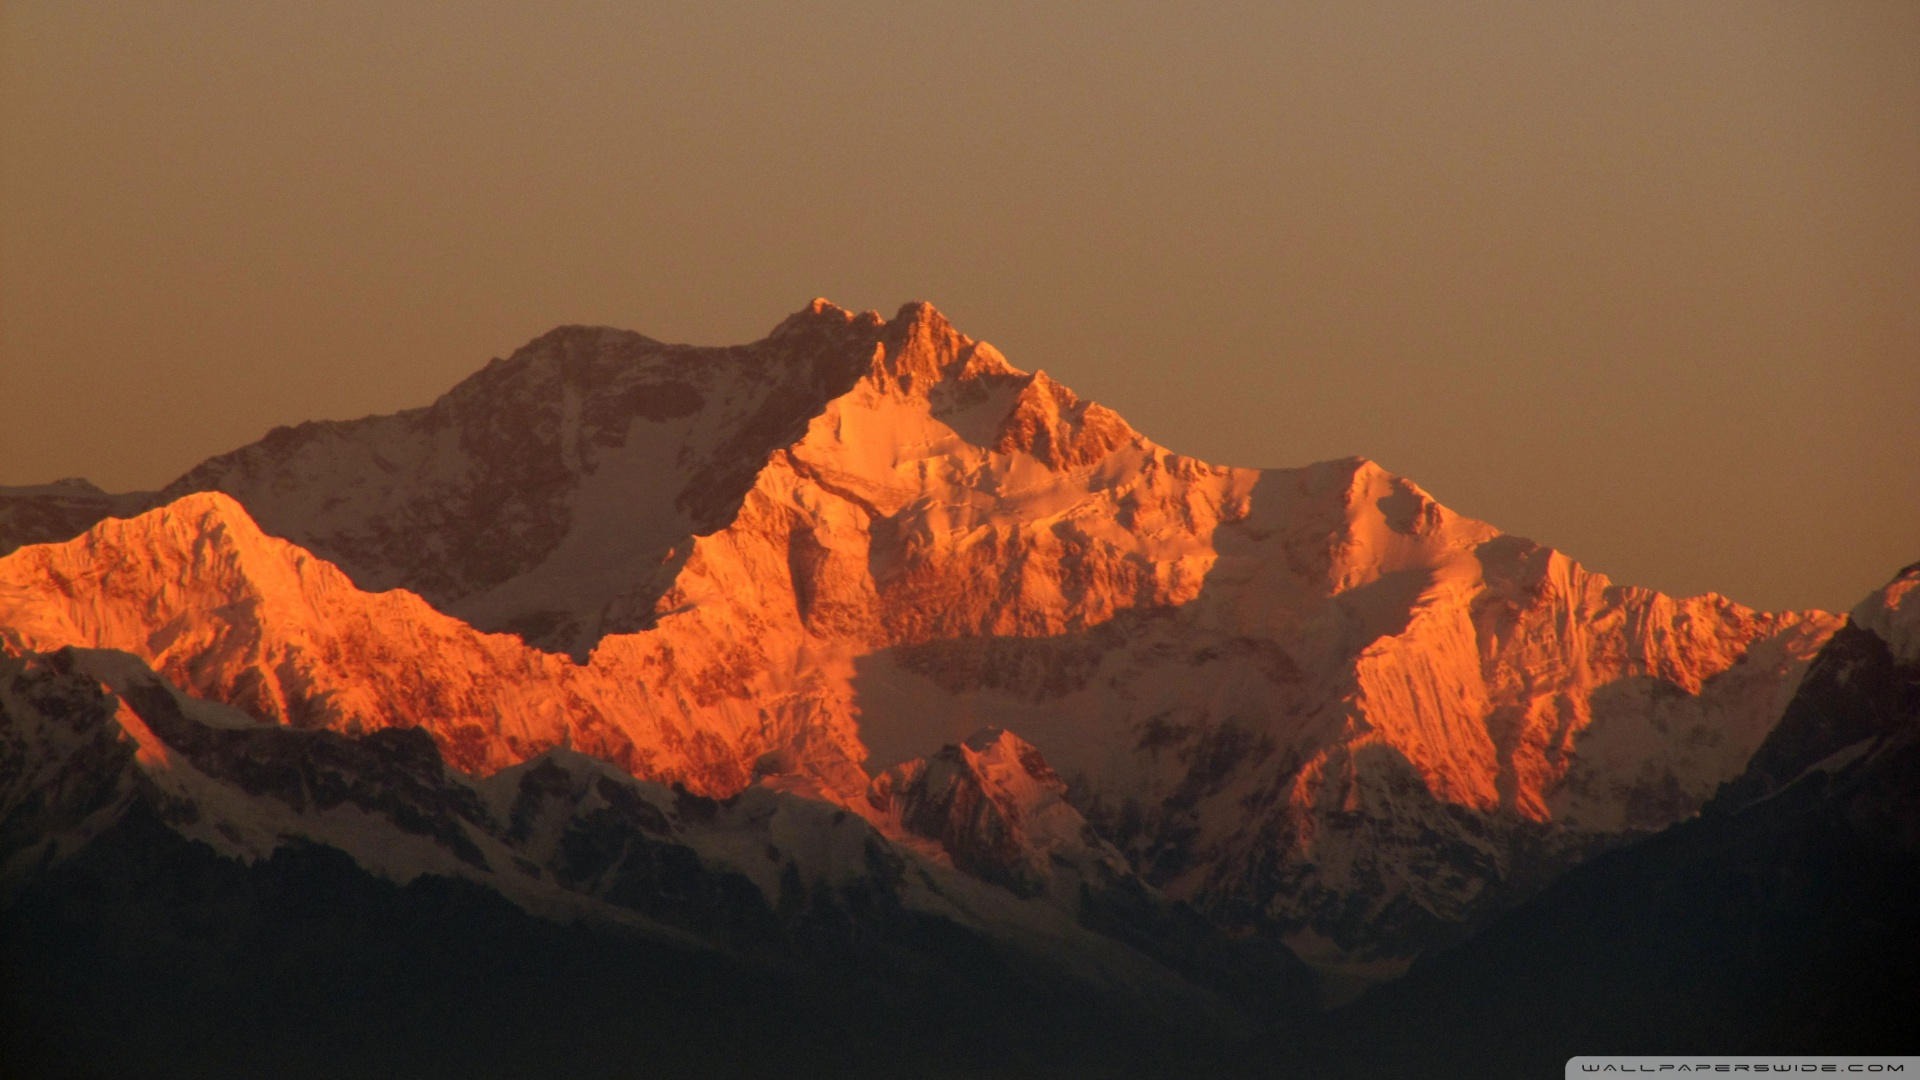
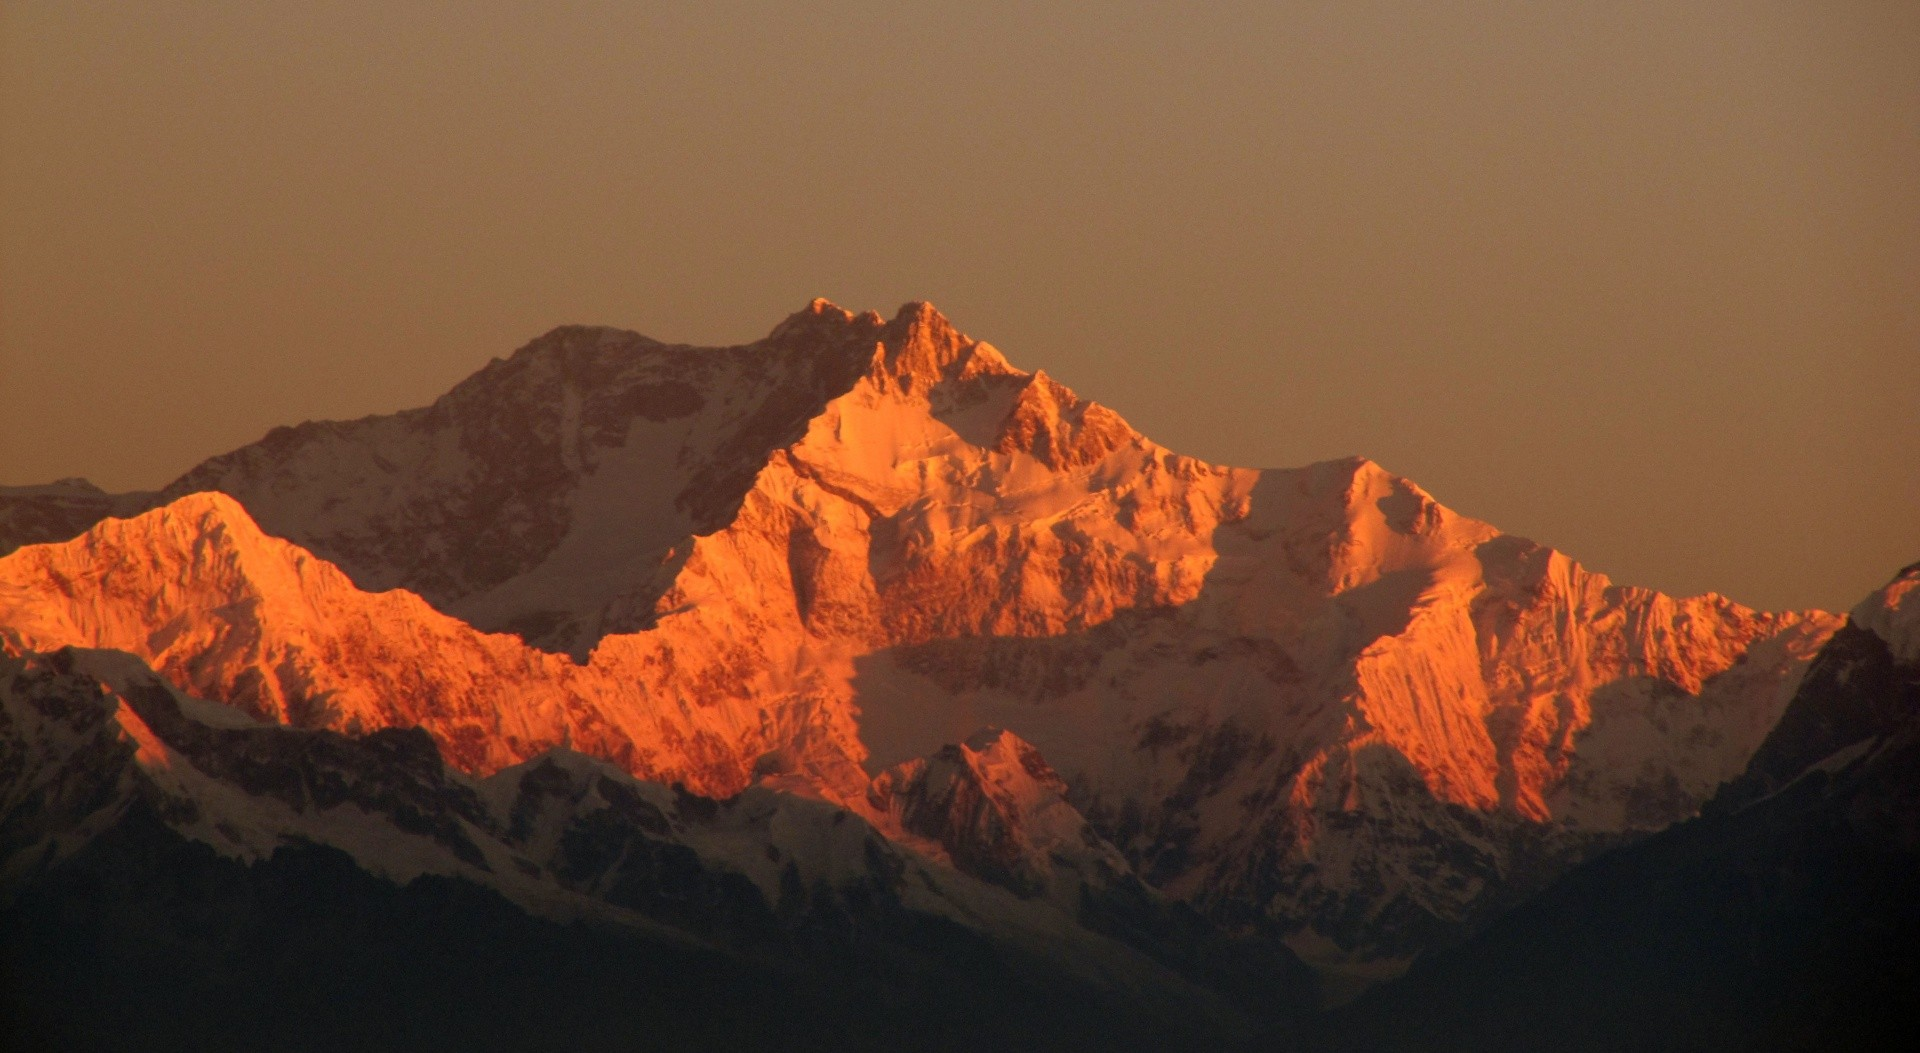
added 2 new wallpapers

diff --git a/README.md b/README.md
@@ -41,117 +41,123 @@ Wallpaper/
 
 <table>
 <tr>
+<td><img src="image/wallpaper/1.jpg" width="200"/></td>
+<td><img src="image/wallpaper/11.jpg" width="200"/></td>
 <td><img src="image/wallpaper/1762304706923393.jpg" width="200"/></td>
 <td><img src="image/wallpaper/1766587324200312.jpg" width="200"/></td>
+</tr>
+<tr>
 <td><img src="image/wallpaper/1770499604537675.jpg" width="200"/></td>
 <td><img src="image/wallpaper/17djs3lfndlnv.jpg" width="200"/></td>
-</tr>
-<tr>
 <td><img src="image/wallpaper/18_17-43-55.jpg" width="200"/></td>
 <td><img src="image/wallpaper/25_09-26-53.png" width="200"/></td>
+</tr>
+<tr>
 <td><img src="image/wallpaper/3257760.jpg" width="200"/></td>
 <td><img src="image/wallpaper/3257793.jpg" width="200"/></td>
-</tr>
-<tr>
 <td><img src="image/wallpaper/Taj.jpg" width="200"/></td>
 <td><img src="image/wallpaper/art002e009284~large.jpg" width="200"/></td>
+</tr>
+<tr>
 <td><img src="image/wallpaper/art002e009285~large.jpg" width="200"/></td>
 <td><img src="image/wallpaper/art002e009575~large.jpg" width="200"/></td>
-</tr>
-<tr>
 <td><img src="image/wallpaper/art002e012632~large.jpg" width="200"/></td>
 <td><img src="image/wallpaper/art002e014066~large.jpg" width="200"/></td>
+</tr>
+<tr>
 <td><img src="image/wallpaper/c-slowtumaagtso_upscayl_2x_upscayl-lite-4x.png" width="200"/></td>
 <td><img src="image/wallpaper/f0027256.png" width="200"/></td>
-</tr>
-<tr>
 <td><img src="image/wallpaper/f1095853224.png" width="200"/></td>
 <td><img src="image/wallpaper/f352582168.jpg" width="200"/></td>
+</tr>
+<tr>
 <td><img src="image/wallpaper/f521704104.jpg" width="200"/></td>
 <td><img src="image/wallpaper/f526928096.jpg" width="200"/></td>
-</tr>
-<tr>
 <td><img src="image/wallpaper/f6368576.jpg" width="200"/></td>
 <td><img src="image/wallpaper/f8469472.jpg" width="200"/></td>
+</tr>
+<tr>
 <td><img src="image/wallpaper/f8479040.jpg" width="200"/></td>
 <td><img src="image/wallpaper/f8481464.jpg" width="200"/></td>
-</tr>
-<tr>
 <td><img src="image/wallpaper/f8482464.jpg" width="200"/></td>
 <td><img src="image/wallpaper/f8482824.png" width="200"/></td>
+</tr>
+<tr>
 <td><img src="image/wallpaper/f8486368.png" width="200"/></td>
 <td><img src="image/wallpaper/f8491464.jpg" width="200"/></td>
-</tr>
-<tr>
 <td><img src="image/wallpaper/f8493672.jpg" width="200"/></td>
 <td><img src="image/wallpaper/f8494368.jpg" width="200"/></td>
+</tr>
+<tr>
 <td><img src="image/wallpaper/f8495992.jpg" width="200"/></td>
 <td><img src="image/wallpaper/f8512312.jpg" width="200"/></td>
-</tr>
-<tr>
 <td><img src="image/wallpaper/f8522120.jpg" width="200"/></td>
 <td><img src="image/wallpaper/f8523944.jpg" width="200"/></td>
+</tr>
+<tr>
 <td><img src="image/wallpaper/f8527488.jpg" width="200"/></td>
 <td><img src="image/wallpaper/f8528920.png" width="200"/></td>
-</tr>
-<tr>
 <td><img src="image/wallpaper/f8584504.jpg" width="200"/></td>
 <td><img src="image/wallpaper/f8588488.jpg" width="200"/></td>
+</tr>
+<tr>
 <td><img src="image/wallpaper/f8591792.jpg" width="200"/></td>
 <td><img src="image/wallpaper/f8647160.jpg" width="200"/></td>
-</tr>
-<tr>
 <td><img src="image/wallpaper/f9156320.jpg" width="200"/></td>
 <td><img src="image/wallpaper/f9160288.jpg" width="200"/></td>
+</tr>
+<tr>
 <td><img src="image/wallpaper/f9168152.jpg" width="200"/></td>
 <td><img src="image/wallpaper/f9168752.jpg" width="200"/></td>
-</tr>
-<tr>
 <td><img src="image/wallpaper/f9196088.jpg" width="200"/></td>
 <td><img src="image/wallpaper/f9202976.jpg" width="200"/></td>
+</tr>
+<tr>
 <td><img src="image/wallpaper/f9206984.jpg" width="200"/></td>
 <td><img src="image/wallpaper/f9212104.jpg" width="200"/></td>
-</tr>
-<tr>
 <td><img src="image/wallpaper/f9219768.jpg" width="200"/></td>
 <td><img src="image/wallpaper/f9229488.jpg" width="200"/></td>
+</tr>
+<tr>
 <td><img src="image/wallpaper/f9237448.jpg" width="200"/></td>
 <td><img src="image/wallpaper/f9239272.jpg" width="200"/></td>
-</tr>
-<tr>
 <td><img src="image/wallpaper/f9241968.jpg" width="200"/></td>
 <td><img src="image/wallpaper/f9257064.jpg" width="200"/></td>
+</tr>
+<tr>
 <td><img src="image/wallpaper/f9261616.jpg" width="200"/></td>
 <td><img src="image/wallpaper/f9263992.jpg" width="200"/></td>
-</tr>
-<tr>
 <td><img src="image/wallpaper/f9271432.jpg" width="200"/></td>
 <td><img src="image/wallpaper/f9283504.png" width="200"/></td>
+</tr>
+<tr>
 <td><img src="image/wallpaper/f9297144.png" width="200"/></td>
 <td><img src="image/wallpaper/f9301008.jpg" width="200"/></td>
-</tr>
-<tr>
 <td><img src="image/wallpaper/f9302752.jpg" width="200"/></td>
 <td><img src="image/wallpaper/f9304616.jpg" width="200"/></td>
+</tr>
+<tr>
 <td><img src="image/wallpaper/f9314352.jpg" width="200"/></td>
 <td><img src="image/wallpaper/f944504376.jpg" width="200"/></td>
-</tr>
-<tr>
 <td><img src="image/wallpaper/peakpx.jpg" width="200"/></td>
 <td><img src="image/wallpaper/wallhaven-0wr616.jpg" width="200"/></td>
+</tr>
+<tr>
 <td><img src="image/wallpaper/wallhaven-1p7xvv.png" width="200"/></td>
 <td><img src="image/wallpaper/wallhaven-3krwg6.jpg" width="200"/></td>
-</tr>
-<tr>
 <td><img src="image/wallpaper/wallhaven-4g935e.jpg" width="200"/></td>
 <td><img src="image/wallpaper/wallhaven-4yyx8d.jpg" width="200"/></td>
-<td><img src="image/wallpaper/wallhaven-lywpjl.jpg" width="200"/></td>
-<td><img src="image/wallpaper/wallhaven-ox7k3m.jpg" width="200"/></td>
 </tr>
 <tr>
+<td><img src="image/wallpaper/wallhaven-lywpjl.jpg" width="200"/></td>
+<td><img src="image/wallpaper/wallhaven-ox7k3m.jpg" width="200"/></td>
 <td><img src="image/wallpaper/wallpaperswide.com-kanchonjongha-peak-wallpaper-1920x1080.jpg" width="200"/></td>
 <td><img src="image/wallpaper/wp10194439-ousama-ranking-wallpapers.jpg" width="200"/></td>
+</tr>
+<tr>
 <td><img src="image/wallpaper/wp10194630-ousama-ranking-wallpapers_upscayl_1x_digital-art-4x.png" width="200"/></td>
+<td></td>
+<td></td>
 <td></td>
 </tr>
 </table>
